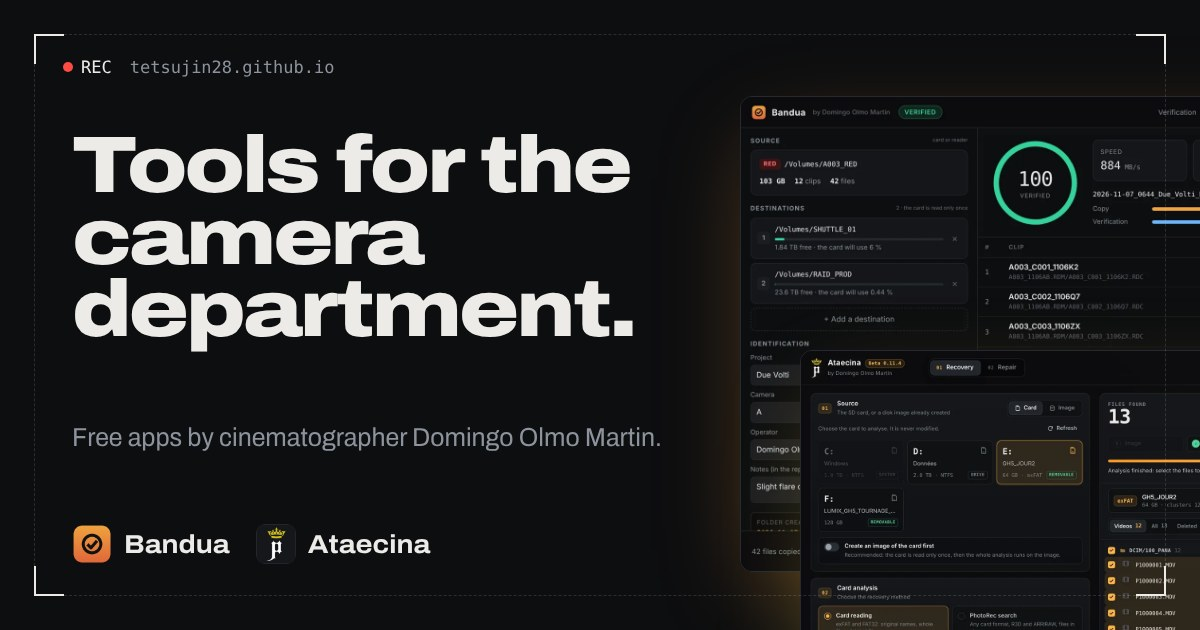
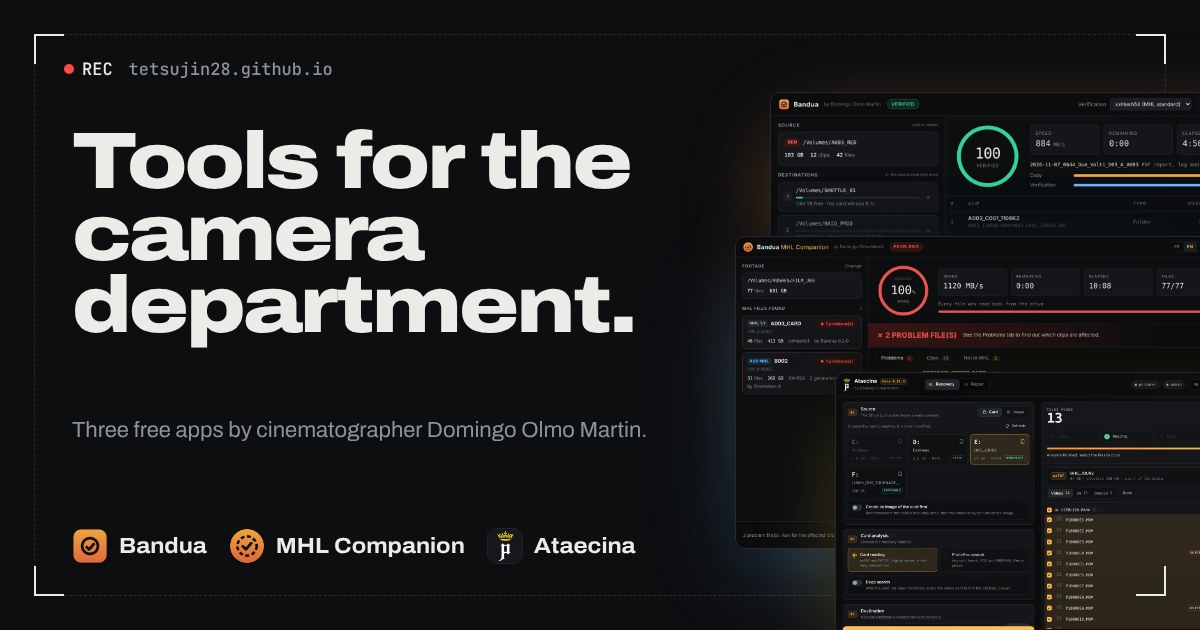
En-tête et image de partage avec les trois apps
Claude-Session: https://claude.ai/code/session_01Mk2Sf6wWCc5fsmkJcmxWx8

diff --git a/index.html b/index.html
@@ -14,7 +14,7 @@
 <meta property="og:image:type" content="image/jpeg">
 <meta property="og:image:width" content="1200">
 <meta property="og:image:height" content="630">
-<meta property="og:image:alt" content="Tools for the camera department. Bandua and Ataecina, free apps by Domingo Olmo Martin.">
+<meta property="og:image:alt" content="Tools for the camera department. Bandua, Bandua MHL Companion and Ataecina, free apps by Domingo Olmo Martin.">
 <meta name="twitter:card" content="summary_large_image">
 <meta name="twitter:image" content="https://tetsujin28.github.io/assets/og-image.jpg">
 <link rel="canonical" href="https://tetsujin28.github.io/">
@@ -68,7 +68,8 @@ a{color:inherit}
 .stack{position:absolute;z-index:1;left:58%;top:12%;width:60%;pointer-events:none}
 .stack img{border-radius:12px;border:1px solid var(--line);width:100%;height:auto}
 .stack .s1{box-shadow:0 40px 110px -30px rgba(243,154,60,.4)}
-.stack .s2{position:absolute;width:82%;left:9%;top:46%;box-shadow:0 40px 110px -30px rgba(226,192,67,.35),0 -10px 40px rgba(0,0,0,.5)}
+.stack .s2{position:absolute;width:84%;left:3%;top:30%;box-shadow:0 40px 110px -30px rgba(108,182,255,.35),0 -10px 40px rgba(0,0,0,.5)}
+.stack .s3{position:absolute;width:74%;left:20%;top:60%;box-shadow:0 40px 110px -30px rgba(226,192,67,.35),0 -10px 40px rgba(0,0,0,.5)}
 .hero h1{font-size:clamp(44px,5.8vw,92px);line-height:.9;font-weight:850;font-variation-settings:"wdth" 118;letter-spacing:-.035em;max-width:11ch}
 .hero p.lede{margin-top:clamp(18px,2.4vw,30px);font-size:clamp(17px,1.6vw,21px);color:var(--muted);max-width:46ch}
 .hero .ctas{display:flex;flex-wrap:wrap;gap:12px;margin-top:30px}
@@ -162,7 +163,7 @@ dialog button{all:unset;position:fixed;top:16px;right:20px;cursor:pointer;color:
   .copy{max-width:none}
   .hero h1{font-size:10vw}
   .brand{font-size:15px;white-space:nowrap}
-  .stack{position:relative;left:12%;top:auto;width:110%;margin-top:40px;margin-bottom:28%}
+  .stack{position:relative;left:12%;top:auto;width:100%;margin-top:40px;margin-bottom:44%}
   .hud.bl,.hud.br .hide-sm{display:none}
   .cols > *{grid-column:1/-1}
   .dl{grid-template-columns:1fr}
@@ -219,7 +220,8 @@ dialog button{all:unset;position:fixed;top:16px;right:20px;cursor:pointer;color:
     </div>
     <div class="stack" aria-hidden="true">
       <img class="s1" data-hero="bandua-verified" src="assets/bandua-verified-en.webp" alt="" width="1600" height="1000">
-      <img class="s2" data-hero="ataecina-recovery" src="assets/ataecina-recovery-en.webp" alt="" width="1600" height="1000">
+      <img class="s2" data-hero="companion-result" src="assets/companion-result-en.webp" alt="" width="1600" height="1000">
+      <img class="s3" data-hero="ataecina-recovery" src="assets/ataecina-recovery-en.webp" alt="" width="1600" height="1000">
     </div>
   </div>
 </section>
